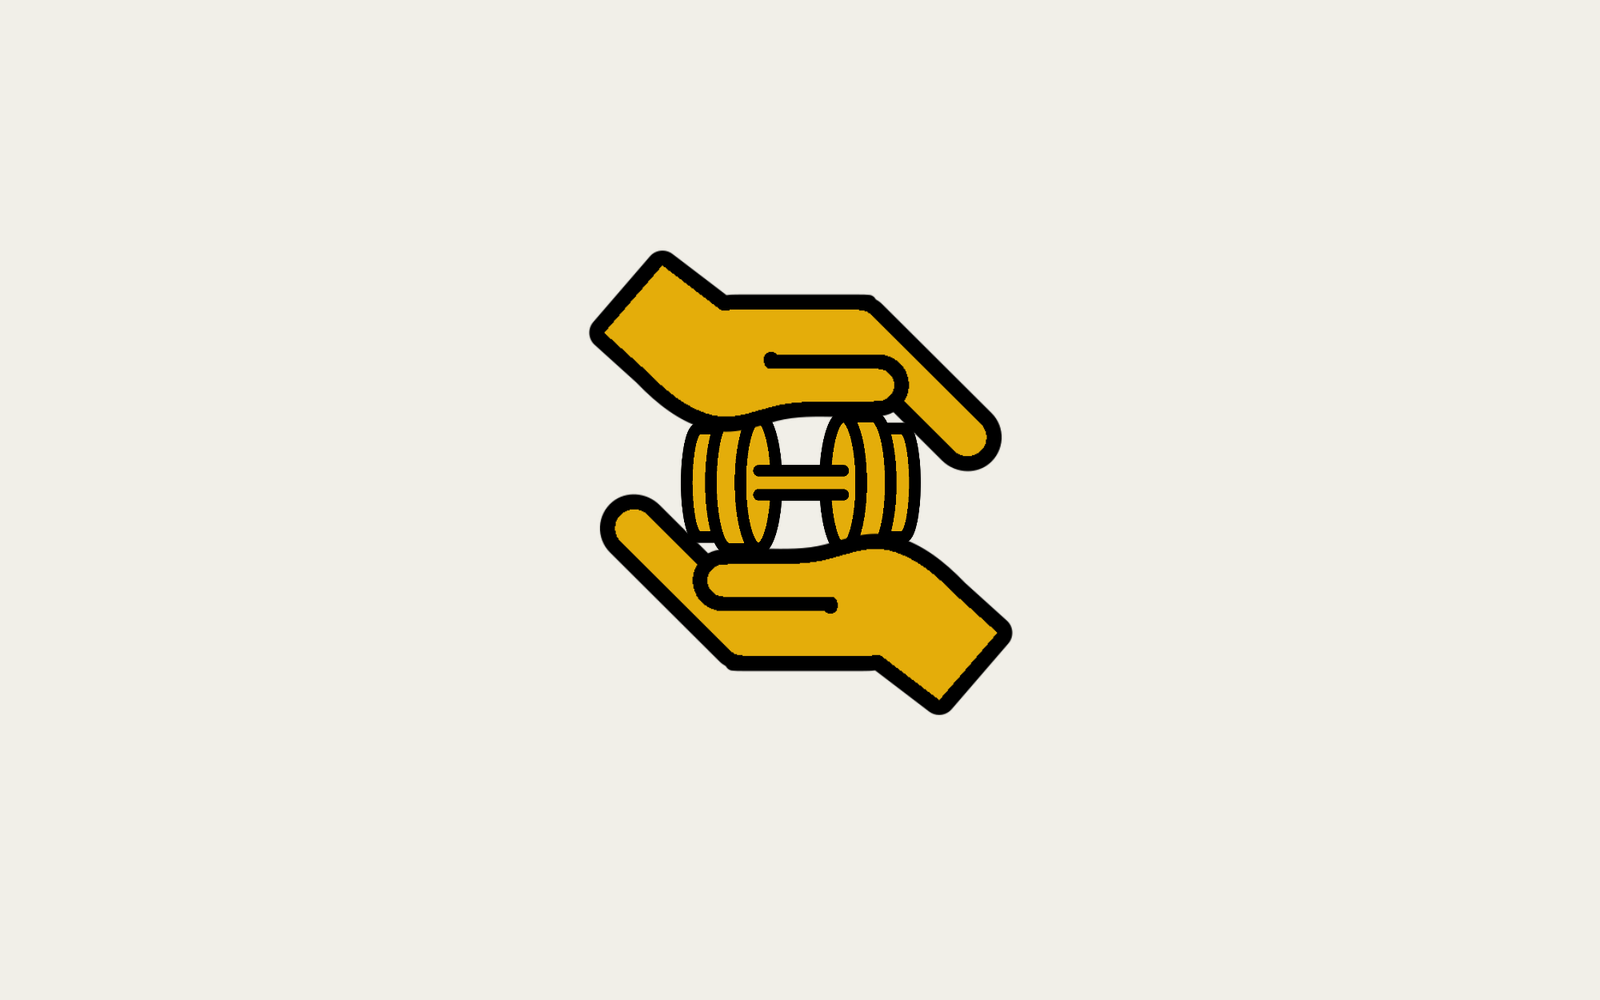
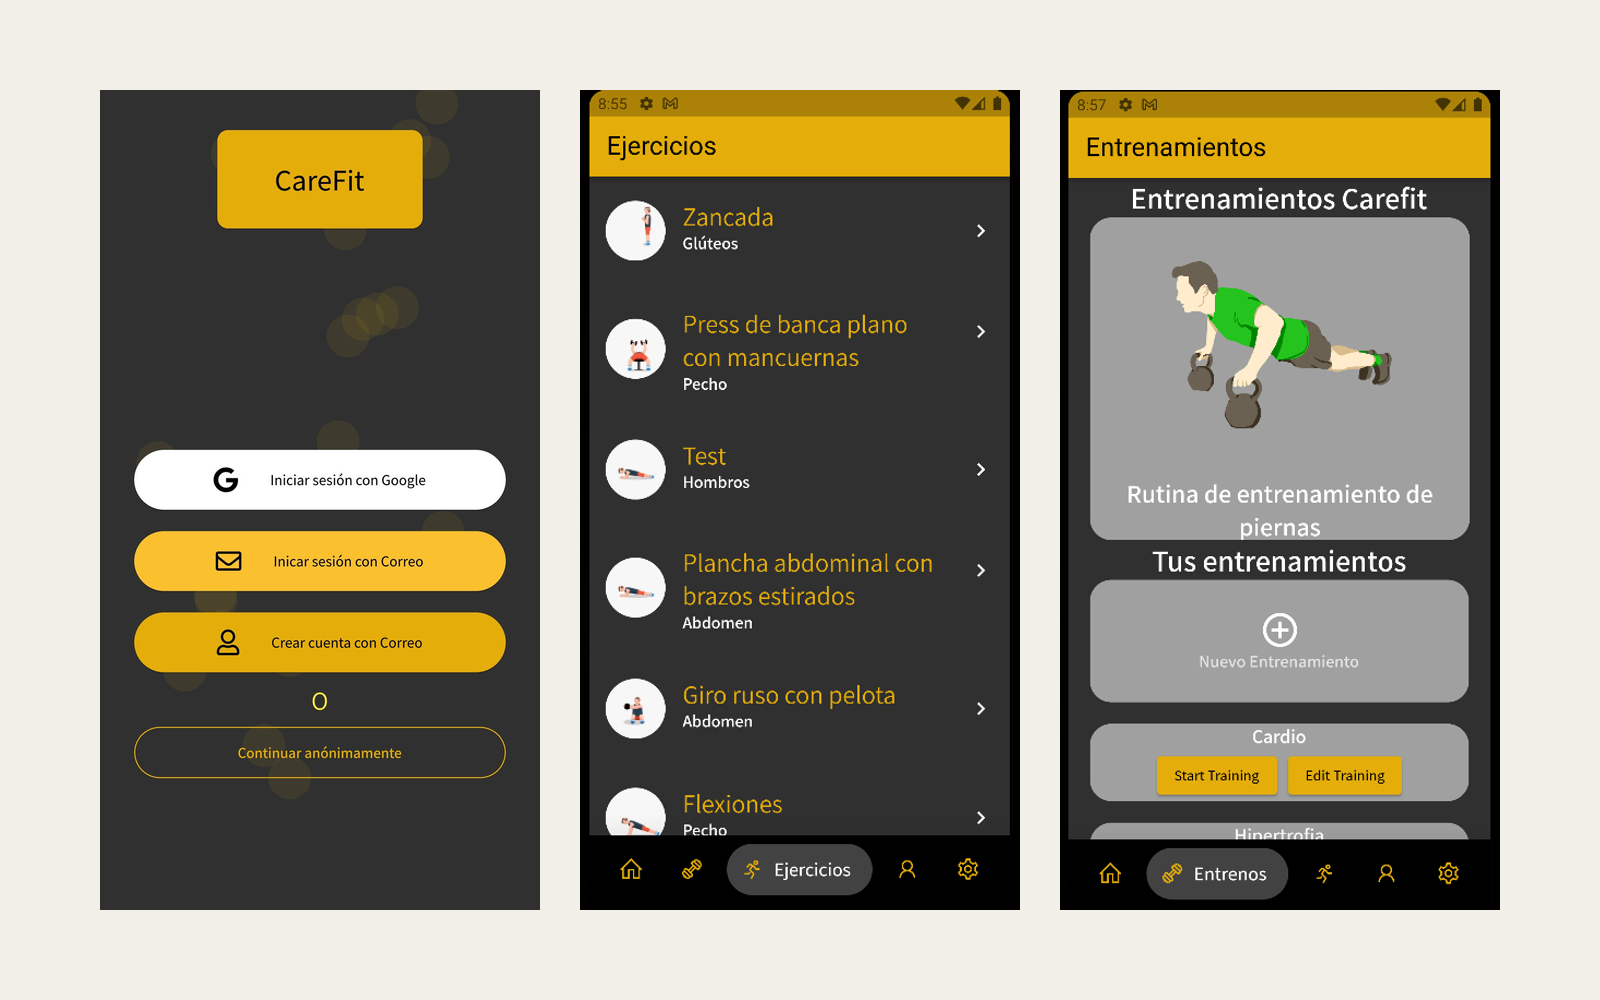
feat: capturas de la versión del TFG de CareFit en una galería

diff --git a/tests/e2e/projects.spec.ts b/tests/e2e/projects.spec.ts
@@ -63,3 +63,20 @@ test("CareFit is listed right after this website (newest first)", async ({ page 
   const titles = await page.locator("#projects article h3").allTextContents();
   expect(titles.map((t) => t.trim()).slice(0, 2)).toEqual(["duartedomingos.net", "CareFit"]);
 });
+
+for (const path of ["/proyectos/carefit/", "/en/projects/carefit/", "/ca/projectes/carefit/"])
+  test(`CareFit shows a screenshot gallery ${path}`, async ({ page }) => {
+    await page.goto(path);
+    const shots = page.locator("[data-gallery] img");
+    await expect(shots).toHaveCount(5);
+    for (const shot of await shots.all()) {
+      await shot.scrollIntoViewIfNeeded();
+      expect((await shot.getAttribute("alt"))?.length).toBeGreaterThan(5);
+      expect(await shot.evaluate((img: HTMLImageElement) => img.naturalWidth)).toBeGreaterThan(0);
+    }
+  });
+
+test("projects without a gallery render none", async ({ page }) => {
+  await page.goto("/proyectos/duarts-review/");
+  await expect(page.locator("[data-gallery]")).toHaveCount(0);
+});

diff --git a/src/content.config.ts b/src/content.config.ts
@@ -12,6 +12,7 @@ const projects = defineCollection({
       year: z.number().int(),
       stack: z.array(z.string()),
       cover: image(),
+      gallery: z.array(z.object({ src: image(), alt: z.string().min(1) })).optional(),
       links: z
         .object({
           demo: z.url().optional(),

diff --git a/src/content/projects/carefit/es.md b/src/content/projects/carefit/es.md
@@ -4,13 +4,24 @@ summary: Mi trabajo de fin de grado. Una app móvil de entrenamiento hecha con F
 year: 2023
 stack: [Flutter, Dart, Firebase]
 cover: ./cover.png
+gallery:
+  - src: ./screens/01-bienvenida.png
+    alt: "Pantalla de bienvenida con acceso con Google, con correo o anónimo"
+  - src: ./screens/02-inicio-sesion.png
+    alt: "Formulario de inicio de sesión"
+  - src: ./screens/03-ejercicios.png
+    alt: "Catálogo de ejercicios con su grupo muscular"
+  - src: ./screens/04-entrenamientos.png
+    alt: "Rutinas de CareFit y rutinas propias del usuario"
+  - src: ./screens/05-editar-rutina.png
+    alt: "Edición de una rutina por días con sus ejercicios"
 ---
 
 CareFit es una aplicación móvil de fitness que desarrollé como trabajo de fin de grado del Grado en Informática de la Universitat d'Andorra. La idea era tener en un solo sitio un catálogo de ejercicios bien explicados y las rutinas propias de cada persona, y poder seguirlas durante el entrenamiento.
 
 ## Qué hace
 
-- **Cuentas de usuario:** registro e inicio de sesión con correo o con Google, y recuperación de contraseña.
+- **Cuentas de usuario:** registro e inicio de sesión con correo o con Google, acceso anónimo y recuperación de contraseña.
 - **Catálogo de ejercicios:** cada ejercicio tiene imagen, grupo muscular, descripción, cómo ejecutarlo y consejos.
 - **Rutinas personalizadas:** crear, editar y eliminar rutinas, eligiendo los ejercicios y sus series, repeticiones y peso.
 - **Entrenamiento:** empezar una rutina, seguirla ejercicio a ejercicio y finalizarla.

diff --git a/src/content/projects/carefit/ca.md b/src/content/projects/carefit/ca.md
@@ -4,13 +4,24 @@ summary: El meu treball de fi de grau. Una app mòbil d'entrenament feta amb Flu
 year: 2023
 stack: [Flutter, Dart, Firebase]
 cover: ./cover.png
+gallery:
+  - src: ./screens/01-bienvenida.png
+    alt: "Pantalla de benvinguda amb accés amb Google, amb correu o anònim"
+  - src: ./screens/02-inicio-sesion.png
+    alt: "Formulari d'inici de sessió"
+  - src: ./screens/03-ejercicios.png
+    alt: "Catàleg d'exercicis amb el seu grup muscular"
+  - src: ./screens/04-entrenamientos.png
+    alt: "Rutines de CareFit i rutines pròpies de l'usuari"
+  - src: ./screens/05-editar-rutina.png
+    alt: "Edició d'una rutina per dies amb els seus exercicis"
 ---
 
 CareFit és una aplicació mòbil de fitness que vaig desenvolupar com a treball de fi de grau del Grau en Informàtica de la Universitat d'Andorra. La idea era tenir en un sol lloc un catàleg d'exercicis ben explicats i les rutines pròpies de cada persona, i poder seguir-les durant l'entrenament.
 
 ## Què fa
 
-- **Comptes d'usuari:** registre i inici de sessió amb correu o amb Google, i recuperació de contrasenya.
+- **Comptes d'usuari:** registre i inici de sessió amb correu o amb Google, accés anònim i recuperació de contrasenya.
 - **Catàleg d'exercicis:** cada exercici té imatge, grup muscular, descripció, com executar-lo i consells.
 - **Rutines personalitzades:** crear, editar i eliminar rutines, triant els exercicis i les seves sèries, repeticions i pes.
 - **Entrenament:** començar una rutina, seguir-la exercici a exercici i finalitzar-la.

diff --git a/src/content/projects/carefit/en.md b/src/content/projects/carefit/en.md
@@ -4,13 +4,24 @@ summary: My final degree project. A workout mobile app built with Flutter and Fi
 year: 2023
 stack: [Flutter, Dart, Firebase]
 cover: ./cover.png
+gallery:
+  - src: ./screens/01-bienvenida.png
+    alt: "Welcome screen with Google, email or anonymous sign-in"
+  - src: ./screens/02-inicio-sesion.png
+    alt: "Sign-in form"
+  - src: ./screens/03-ejercicios.png
+    alt: "Exercise catalogue with each muscle group"
+  - src: ./screens/04-entrenamientos.png
+    alt: "CareFit routines and the user's own routines"
+  - src: ./screens/05-editar-rutina.png
+    alt: "Editing a routine by day with its exercises"
 ---
 
 CareFit is a fitness mobile app I built as the final project of my Bachelor's Degree in Computer Science at the University of Andorra. The idea was to bring together a catalogue of well-explained exercises and each person's own routines, and to follow them while training.
 
 ## What it does
 
-- **User accounts:** sign-up and sign-in with email or Google, plus password recovery.
+- **User accounts:** sign-up and sign-in with email or Google, anonymous access and password recovery.
 - **Exercise catalogue:** each exercise has an image, muscle group, description, how to perform it and tips.
 - **Custom routines:** create, edit and delete routines, choosing the exercises and their sets, reps and weight.
 - **Workouts:** start a routine, follow it exercise by exercise and finish it.
